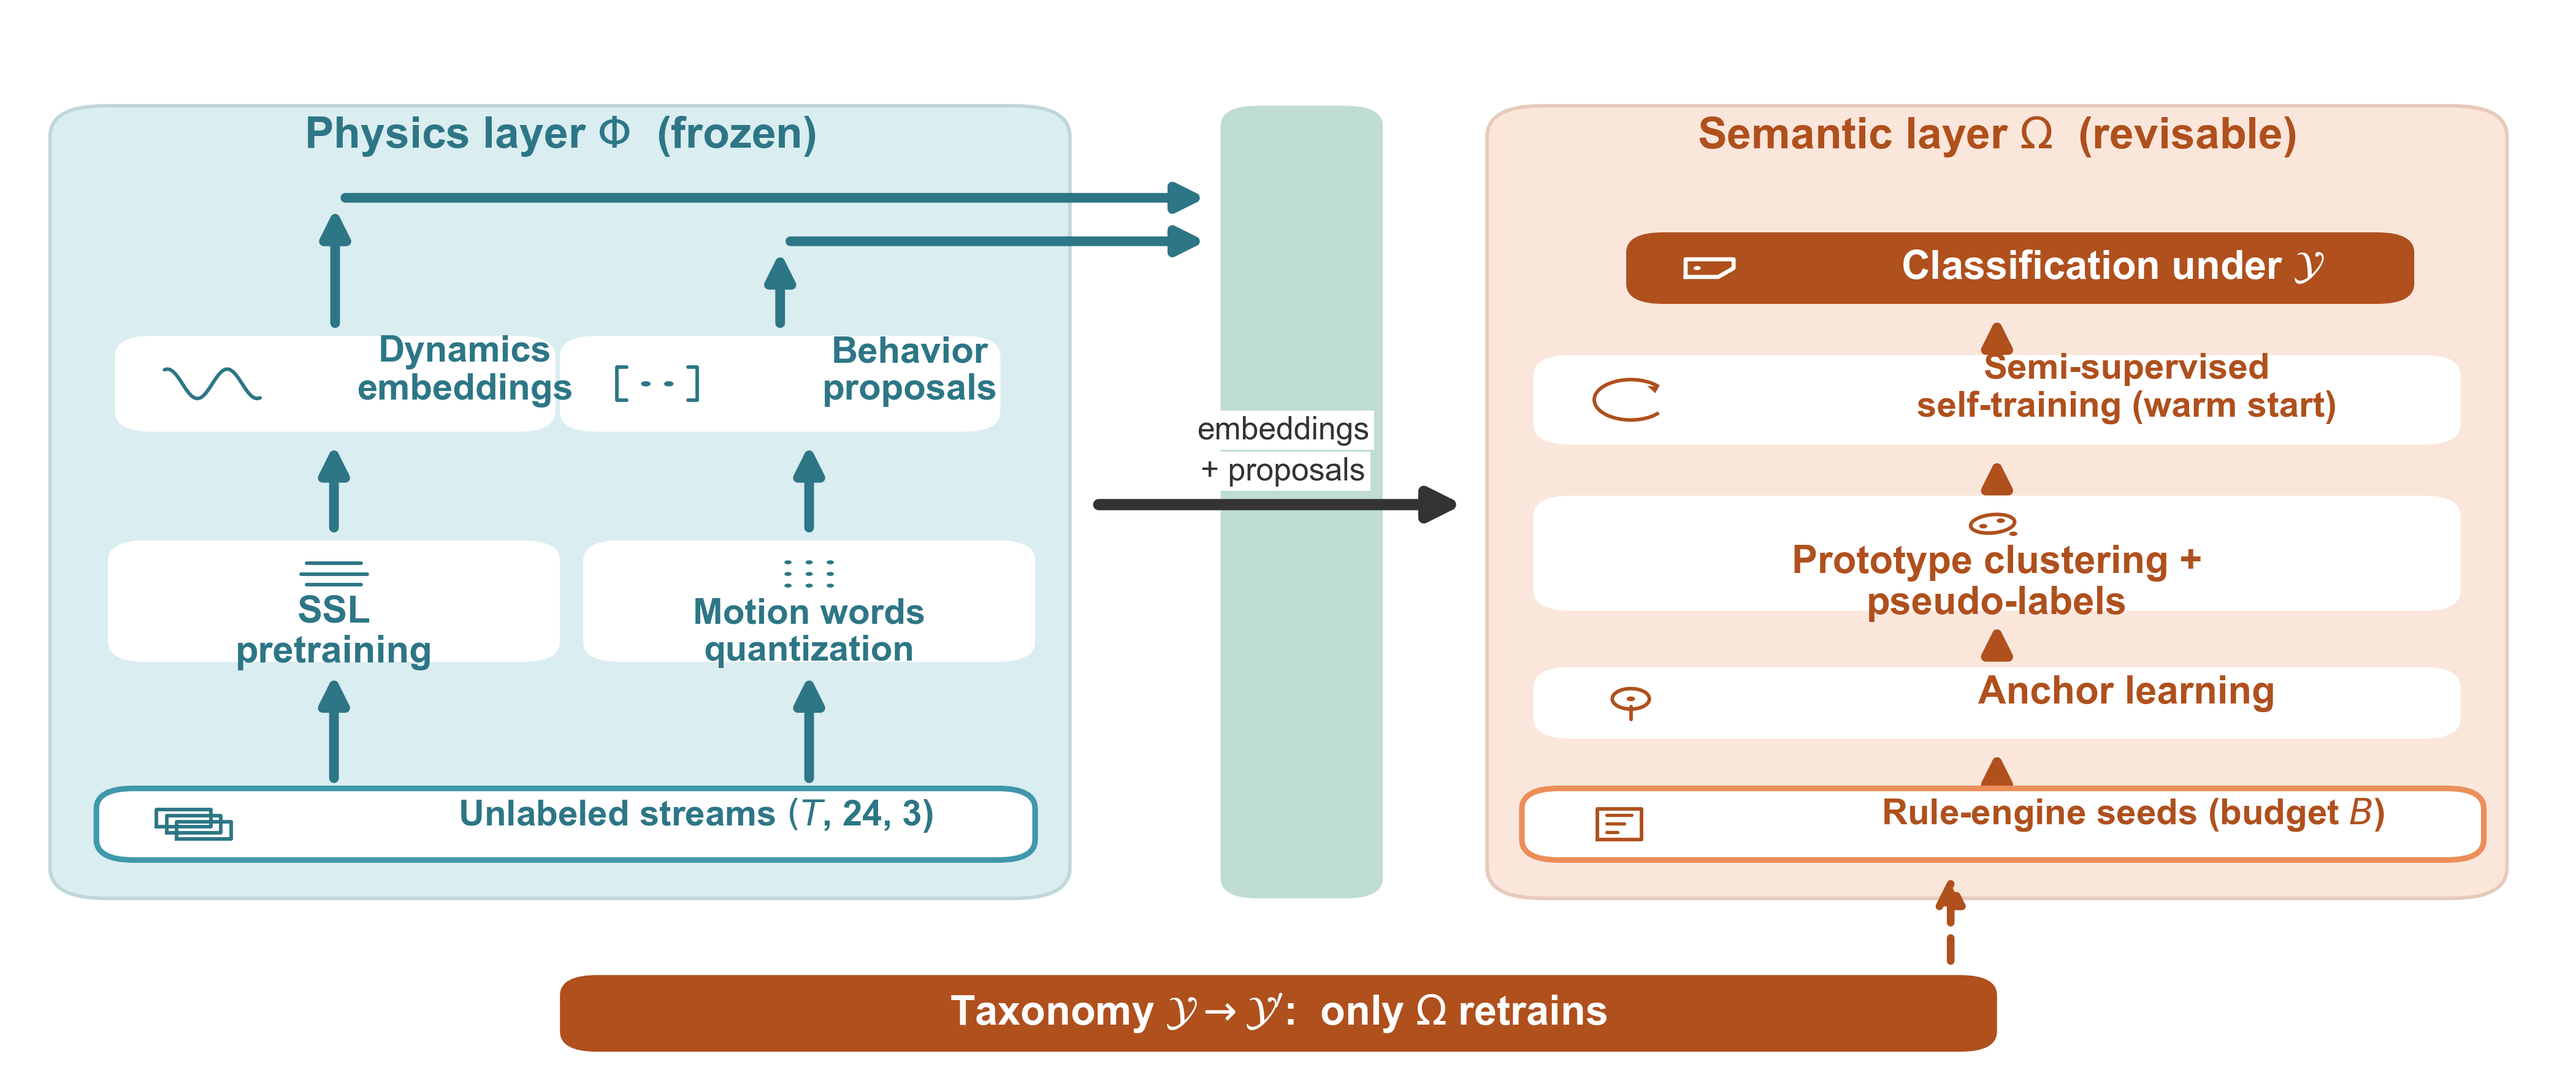
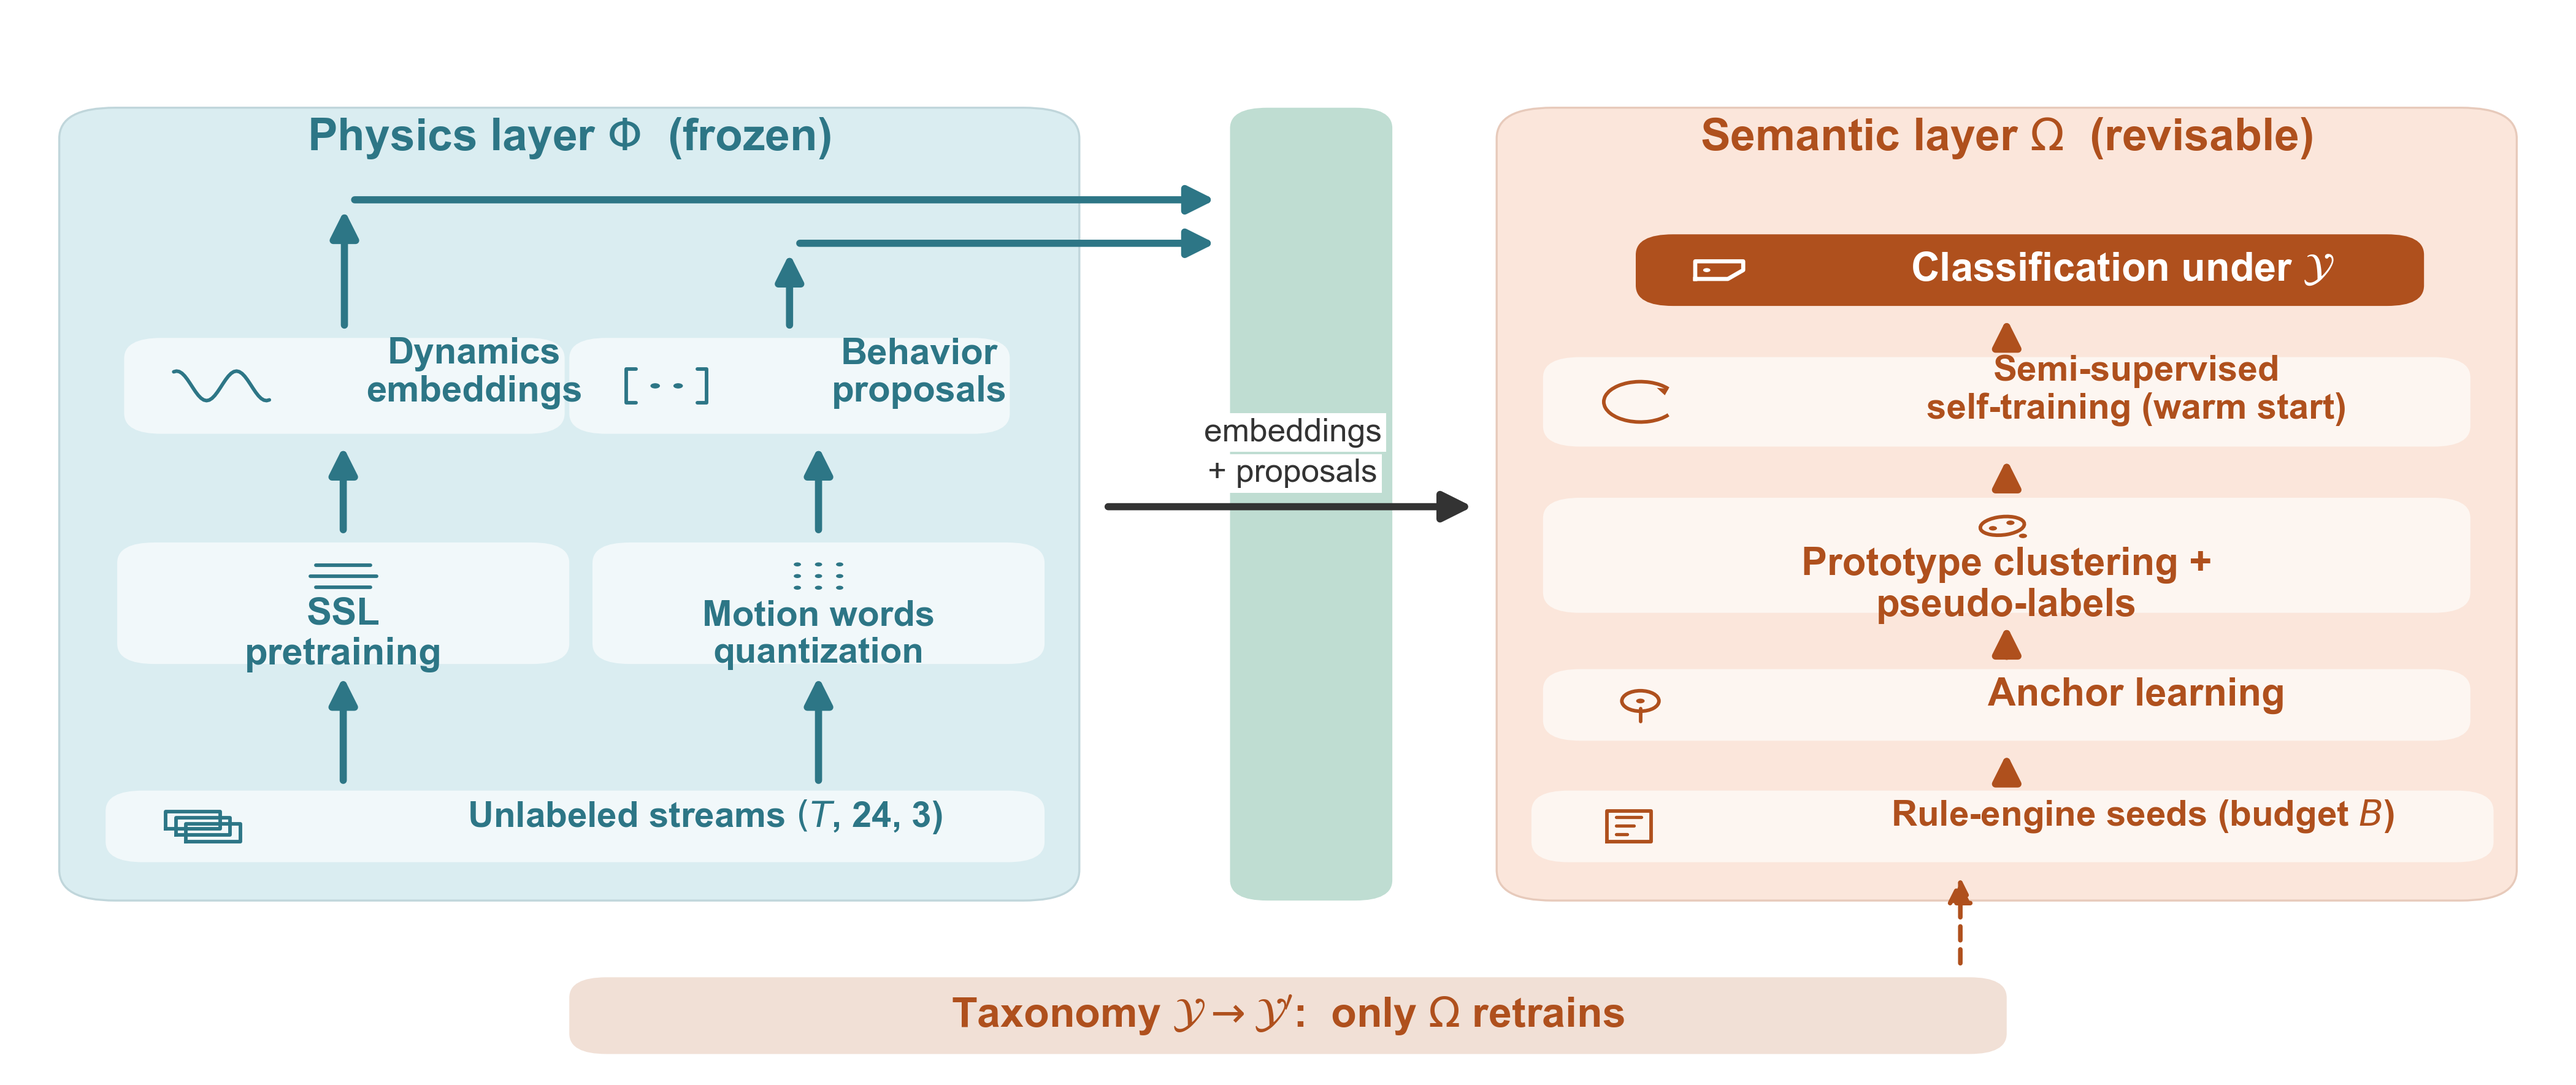
feat(fig1-2col): 同步方向 C+（v16_2col）——同相浅底卡去边 + 焦点 2->1 + 尺度修复
由 v14_2col 按 C+ 规格同步（与单栏正典 v16 同代）。色板/语义/拓扑/全部图内文字
逐字承 v14_2col（含 9 个模块卡标题、2 面板标题、桥标签、Taxonomy 带文字），
零新增删除改写。

C+ 收紧：
- 笔触：层容器发丝边 0.7->0.4；模块卡白底+彩边 -> 同相浅底（mix 0.62）无边；
  流线 1.9->1.4；接口主箭 2.2->1.4；演化虚线 1.5->0.9。
- 焦点 2->1：Taxonomy 演化带降为浅阶（mix 0.82 + 深化色文字），唯一焦点留给
  Classification under Y。
- 字号：面板标题 8.6->8.8；副文 6.2->6.4；演化带 8.0->8.2。下限 5.5pt。
- 尺度修复：去 bbox_inches=tight，MediaBox 504.00x212.40pt = 7in 整。

门禁：G1(+1 冗余豁免)/G2/G5/G6/G4 全 PASS + 面板标题净空自检 10.53/8.61 单位。
D7 裁决执行。

diff --git a/docs/paper/figures/scripts/make_fig1_overview_v16_2col.py b/docs/paper/figures/scripts/make_fig1_overview_v16_2col.py
@@ -1,0 +1,194 @@
+# -*- coding: utf-8 -*-
+r"""fig1 双栏版（v16_2col）— PSD 框架总览 7in 资产 · 风格方向 **C+ 强化**。
+
+由 v14_2col 按 C+ 规格同步（与单栏正典 v16 同代），相对 v14_2col 的差异：
+
+**C+ 收紧**：
+1. 笔触更细：层容器发丝边 0.7→0.4；模块卡去边（白底+彩边 1.1/1.2 → 同相浅底
+   mix 0.78 无边，与单栏 v16 同一色阶语言）；流线 1.9→1.4；接口主箭 2.2→1.4；
+   演化虚线 1.5→0.9。
+2. 焦点块 2→1：v14_2col 同时深色化 deepblock 与 Taxonomy 演化带；C+ 把
+   Taxonomy 带降为浅阶（S_BAR 同相 mix 0.82 + 文字深化色），唯一焦点留给
+   Classification under Y（与单栏 v16 处置一致）。
+3. 字号阶梯更大：面板标题 8.6→8.8；副文 6.2→6.4；微图标卡副文 6.2→6.4；
+   演化带文字 8.0→8.2。下限 5.5pt（本图最小 6.4）。
+4. 尺度修复：去 bbox_inches="tight"，固定画布 7.0x2.95in ⇒ MediaBox 严格
+   504.00x212.40pt（=7in 整）。
+
+**承 v14_2col 不变**：坐标系与拓扑逐点同构（110x84 零交叉正交路由）、
+模块微图标（make_icon_glyphs 共享库）、全部图内文字逐字保留、色板语义。
+新资产未入 main.tex，caption 零耦合。
+"""
+import matplotlib
+matplotlib.use("Agg")
+import matplotlib.pyplot as plt
+from pathlib import Path
+
+ROOT = Path(__file__).resolve().parents[4]
+OUT = ROOT / "docs" / "paper" / "figures"
+
+import sys, os
+sys.path.insert(0, os.path.dirname(os.path.abspath(__file__)))
+import psd_style
+import make_icon_glyphs as ic
+psd_style.apply_style()
+
+PD, SD_ = psd_style.PHYS_DEEP, psd_style.SEM_DEEP
+PE, SE_ = psd_style.PHYS_EDGE, psd_style.SEM_EDGE
+PT, ST_ = psd_style.PHYS_TINT, psd_style.SEM_TINT
+
+
+def _mix(c1, c2, f):
+    """c1 向 c2 混合 f（0=c1, 1=c2），返回 hex。局部助手，不动 psd_style。"""
+    c1 = c1.lstrip("#"); c2 = c2.lstrip("#")
+    return "#%02X%02X%02X" % tuple(
+        round(int(c1[i:i+2], 16) * (1 - f) + int(c2[i:i+2], 16) * f)
+        for i in (0, 2, 4))
+
+
+# C+ 色阶：模块卡同相浅底（在层容器 tint 之上再向白抬一阶）
+P_CARD = _mix(PT, "#FFFFFF", 0.62)
+S_CARD = _mix(ST_, "#FFFFFF", 0.62)
+# Taxonomy 演化带浅阶（原 SD_ 满块 -> C+ 浅阶，焦点纪律 2->1）
+S_BAR = _mix(SD_, "#FFFFFF", 0.82)
+
+fig, ax = plt.subplots(figsize=(7.0, 2.95))
+ax.set_xlim(0, 110); ax.set_ylim(0, 84)
+ax.axis("off")
+
+
+def wcard(x, y, w, h, title, sub=None, deep="#333333", fill="#FFFFFF", z=5,
+          title_fs=7.6, sub_fs=6.4, glyph=None, gcolor=None):
+    """C+ 模块卡：同相浅底、无边（仅靠色阶与图标色分层），图标置卡内顶部。"""
+    psd_style.card(ax, x, y, w, h, fill=fill, edge=None, rounding=1.6, z=z)
+    if glyph is not None and h >= 8:
+        gs = min(w, h) * 0.30
+        glyph(ax, x + w / 2, y + h - 1.2 - gs / 2, gs, gcolor or deep)
+        ty, sy = y + h * 0.24, y + h * 0.06
+    elif glyph is not None:  # 矮卡：图标居左，文字右移
+        gs = min(w, h) * 0.55
+        glyph(ax, x + 4.2, y + h / 2, gs, gcolor or deep)
+        ty, sy = y + h * 0.63, y + h * 0.25
+        x = x + 5.6
+    else:
+        ty, sy = y + h * 0.63, y + h * 0.25
+    if sub:
+        ax.text(x + w / 2, ty, title, ha="center", va="center", fontsize=title_fs,
+                fontweight="bold", color=deep, zorder=z + 2, linespacing=1.15)
+        ax.text(x + w / 2, sy, sub, ha="center", va="center", fontsize=sub_fs,
+                color="#555555", zorder=z + 2)
+    else:
+        ax.text(x + w / 2, y + h / 2 if glyph is None else ty,
+                title, ha="center", va="center", fontsize=title_fs,
+                fontweight="bold", color=deep, zorder=z + 2, linespacing=1.15)
+
+
+def deepblock(x, y, w, h, title, deep="#333333", z=5, title_fs=8.0, glyph=None):
+    """DEEP 满色白字焦点模块（唯一焦点；微图标白描边居左）。"""
+    psd_style.card(ax, x, y, w, h, fill=deep, edge=None, rounding=1.6, z=z)
+    if glyph is not None:
+        glyph(ax, x + 3.6, y + h / 2, h * 0.56, "white", lw=0.8)
+        x = x + 4.0
+    ax.text(x + w / 2, y + h / 2, title, ha="center", va="center", fontsize=title_fs,
+            fontweight="bold", color="white", zorder=z + 2, linespacing=1.15)
+
+
+# ---- 层容器（C+ 发丝边 0.7 -> 0.4） ----
+psd_style.card(ax, 2, 14, 44, 62, fill=PT, edge="#C0D6DB", lw=0.4, rounding=2.4, z=2)
+ax.text(24, 73.6, r"Physics layer $\Phi$  (frozen)", ha="center", va="center",
+        fontsize=8.8, fontweight="bold", color=PD, zorder=6)
+psd_style.card(ax, 64, 14, 44, 62, fill=ST_, edge="#E7CABB", lw=0.4, rounding=2.4, z=2)
+ax.text(86, 73.6, r"Semantic layer $\Omega$  (revisable)", ha="center", va="center",
+        fontsize=8.8, fontweight="bold", color=SD_, zorder=6)
+
+# ---- 中央接口桥 + 唯一接口箭头 + 横排边标签（C+：主箭 2.2 -> 1.4） ----
+psd_style.card(ax, 52.5, 14, 7, 62, fill=psd_style.IFACE_FILL, edge=None,
+               rounding=1.6, z=3)
+psd_style.flowline(ax, 46.8, 44.8, 63.4, 44.8, color="#333333", lw=1.4, head=12, z=4)
+ax.text(55.2, 50.6, "embeddings", ha="center", va="center", fontsize=6.4,
+        color="#333333", zorder=6,
+        bbox=dict(facecolor="white", edgecolor="none", pad=0.9))
+ax.text(55.2, 47.4, "+ proposals", ha="center", va="center", fontsize=6.4,
+        color="#333333", zorder=6,
+        bbox=dict(facecolor="white", edgecolor="none", pad=0.9))
+
+# ---- 物理层（C+：同相浅底卡去边；流线 1.9 -> 1.4） ----
+wcard(4.0, 17.0, 40.5, 5.6, "Unlabeled streams $(T$, 24, 3)", deep=PD,
+      fill=P_CARD, title_fs=7.0, glyph=ic.glyph_stack, gcolor=PD)
+wcard(4.5, 32.5, 19.5, 9.5, "SSL\npretraining", deep=PD, fill=P_CARD, title_fs=7.4,
+      glyph=ic.glyph_layers, gcolor=PD)
+wcard(25, 32.5, 19.5, 9.5, "Motion words\nquantization", deep=PD, fill=P_CARD,
+      title_fs=7.0, glyph=ic.glyph_grid_dots, gcolor=PD)
+wcard(4.8, 50.5, 19.0, 7.5, "Dynamics\nembeddings", deep=PD, fill=P_CARD,
+      title_fs=7.2, glyph=ic.glyph_wave, gcolor=PD)
+wcard(24.0, 50.5, 19.0, 7.5, "Behavior\nproposals", deep=PD, fill=P_CARD,
+      title_fs=7.2, glyph=ic.glyph_brackets, gcolor=PD)
+psd_style.flowline(ax, 14.25, 22.6, 14.25, 32.3, color=PD, lw=1.4)
+psd_style.flowline(ax, 34.75, 22.6, 34.75, 32.3, color=PD, lw=1.4)
+psd_style.flowline(ax, 14.25, 42.2, 14.25, 50.3, color=PD, lw=1.4)
+psd_style.flowline(ax, 34.75, 42.2, 34.75, 50.3, color=PD, lw=1.4)
+psd_style.flowline(ax, 14.3, 58.2, 14.3, 68.8, color=PD, lw=1.4)
+psd_style.flowline(ax, 14.3, 68.8, 52.3, 68.8, color=PD, lw=1.4)
+psd_style.flowline(ax, 33.5, 58.2, 33.5, 65.4, color=PD, lw=1.4)
+psd_style.flowline(ax, 33.5, 65.4, 52.3, 65.4, color=PD, lw=1.4)
+
+# ---- 语义层（C+：同相浅底卡去边） ----
+wcard(65.5, 17.0, 41.5, 5.6, "Rule-engine seeds (budget $B$)", deep=SD_,
+      fill=S_CARD, title_fs=7.0, glyph=ic.glyph_doc_lines, gcolor=SD_)
+wcard(66, 26.5, 40, 5.6, "Anchor learning", deep=SD_, fill=S_CARD, title_fs=7.6,
+      glyph=ic.glyph_anchor_pin, gcolor=SD_)
+wcard(66, 36.5, 40, 9.0, "Prototype clustering +\npseudo-labels", deep=SD_,
+      fill=S_CARD, title_fs=7.6, glyph=ic.glyph_cluster, gcolor=SD_)
+wcard(66, 49.5, 40, 7.0, "Semi-supervised\nself-training (warm start)", deep=SD_,
+      fill=S_CARD, title_fs=7.0, glyph=ic.glyph_circular_arrow, gcolor=SD_)
+deepblock(70, 60.5, 34, 5.6, r"Classification under $\mathcal{Y}$", deep=SD_,
+          title_fs=7.8, glyph=ic.glyph_tag)
+psd_style.flowline(ax, 86, 22.8, 86, 26.3, color=SD_, lw=1.4)
+psd_style.flowline(ax, 86, 32.3, 86, 36.3, color=SD_, lw=1.4)
+psd_style.flowline(ax, 86, 45.7, 86, 49.3, color=SD_, lw=1.4)
+psd_style.flowline(ax, 86, 56.7, 86, 60.3, color=SD_, lw=1.4)
+
+# ---- 演化标注带（C+：SD_ 满块 -> 浅阶 S_BAR，焦点 2 -> 1） ----
+psd_style.card(ax, 24, 2.0, 62, 6.0, fill=S_BAR, edge=None, rounding=1.6, z=5)
+ax.text(55, 5.0, r"Taxonomy $\mathcal{Y} \to \mathcal{Y}'$:  only $\Omega$ retrains",
+        ha="center", va="center", fontsize=8.2, color=SD_,
+        fontweight="bold", zorder=7)
+psd_style.flowline(ax, 84, 8.3, 84, 16.6, color=SD_, lw=0.9, ls=(0, (3, 2)), head=10)
+
+# ---- 固定画布（C+：去 tight，MediaBox 严格 = figsize = 504x212.4pt） ----
+fig.subplots_adjust(left=0.005, right=0.995, top=0.995, bottom=0.005)
+pdf_path = OUT / "fig1_framework_overview_2col.pdf"
+png_path = OUT / "fig1_framework_overview_2col.png"
+prev_path = ROOT / "reports" / "figB-proposal" / "preview_fig1_2col.png"
+prev_path.parent.mkdir(parents=True, exist_ok=True)
+fig.savefig(pdf_path)
+fig.savefig(png_path, dpi=600)
+fig.savefig(prev_path, dpi=150)
+
+# ---- 门禁（C+ 补 G5/G6，与单栏正典同口径） ----
+import make_common_gates as gates
+gates.gate_print_robustness(
+    "fig1-2col-v16", {"physics": psd_style.PHYS_EDGE, "semantic": psd_style.SEM_EDGE},
+    redundancy="tone ladder + position + labels + glyph icons")
+gates.gate_labels(fig, ax, list(ax.texts), name="fig1-2col-v16")
+gates.gate_typography(fig, min_pt=5.5, name="fig1-2col-v16")
+gates.gate_marks_in_axes(fig, name="fig1-2col-v16")
+gates.gate_pdf(pdf_path, max_w_pt=504.1)
+
+# ---- 本地净空自检（承单栏 v16：面板标题 vs 面板边框，G2 覆盖不到的类别） ----
+fig.canvas.draw()
+ren = fig.canvas.get_renderer()
+inv = ax.transData.inverted()
+for name, t, x0, x1 in (
+        ("Physics layer title", ax.texts[0], 2, 46),
+        ("Semantic layer title", ax.texts[1], 64, 108)):
+    bb = t.get_window_extent(ren)
+    (bx0, by0), (bx1, by1) = inv.transform([[bb.x0, bb.y0], [bb.x1, bb.y1]])
+    cl = min(bx0 - x0, x1 - bx1)
+    print("[local clearance] %-22s span %.2f..%.2f | panel %d..%d | clear L=%.2f R=%.2f"
+          % (name, min(bx0, bx1), max(bx0, bx1), x0, x1,
+             min(bx0, bx1) - x0, x1 - max(bx0, bx1)))
+    assert cl >= 1.56, f"{name} 与面板边框净空不足（{cl:.2f} < 1.56 单位）"
+print("[local clearance] fig1-2col-v16: 2 panel titles -> PASS")
+
+print("fig1 v16_2col (C+ intensified, fixed canvas 504pt) saved:", pdf_path)
